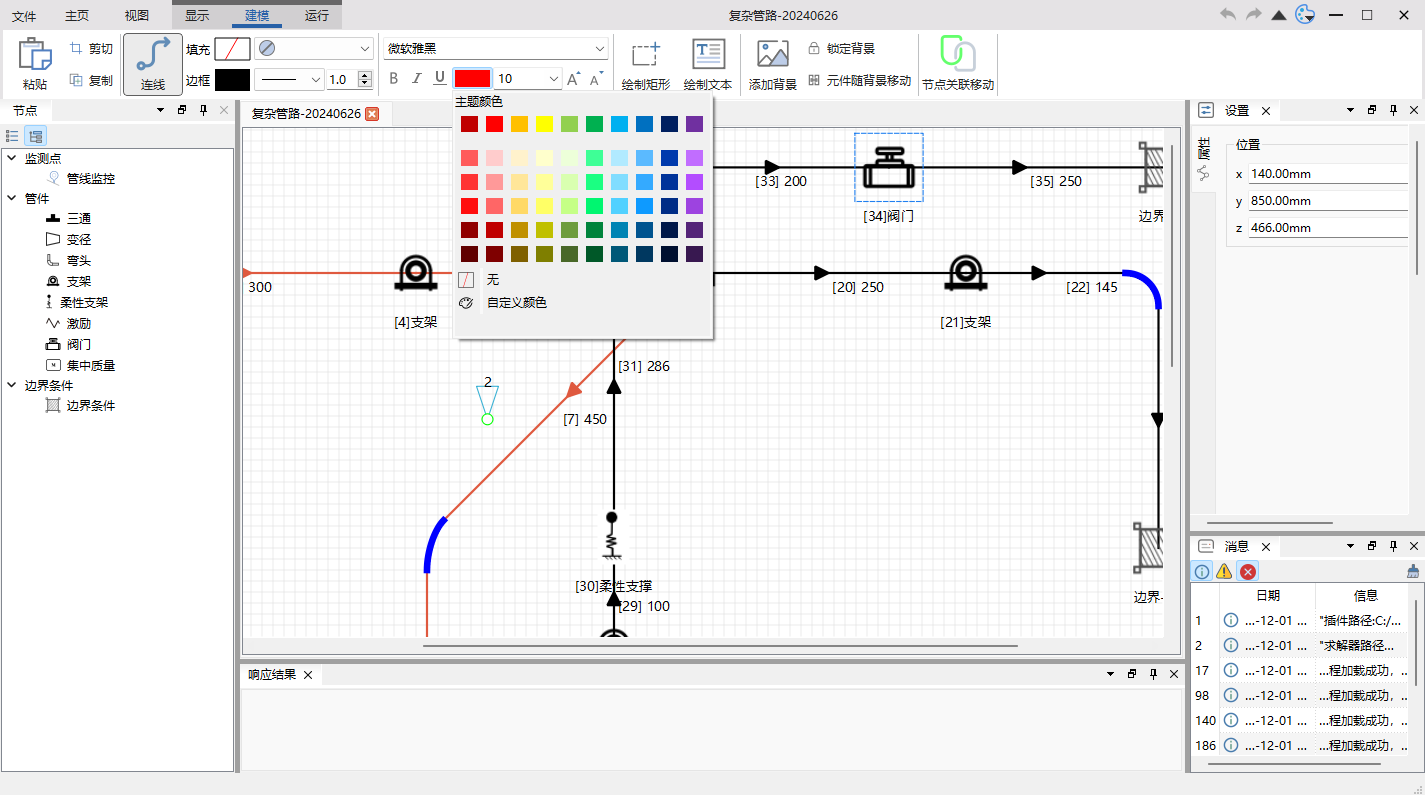
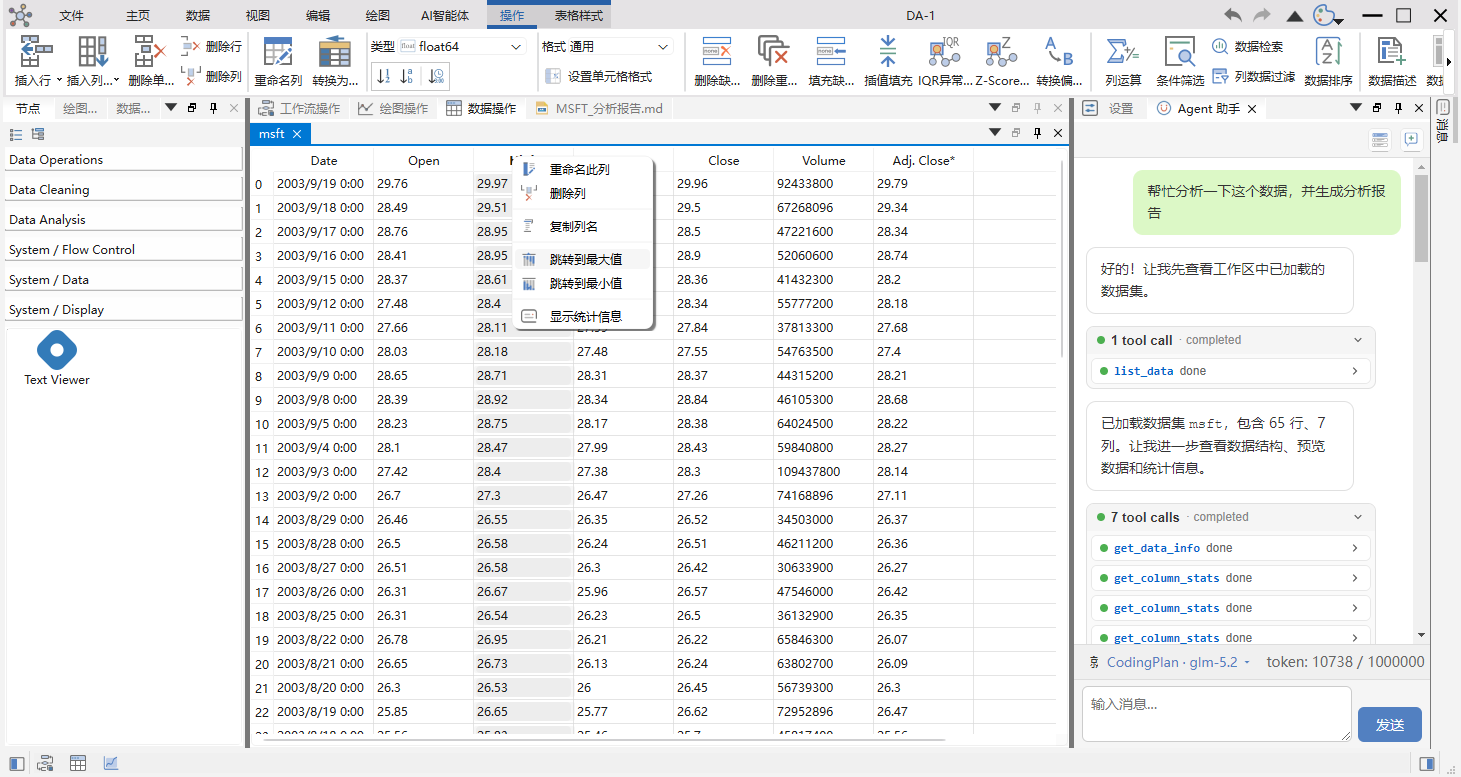
调整图片

Changed region(s): [[0.0, 0.0, 1.0, 1.0], [0.3088, 0.8958, 0.4323, 0.9575], [0.0, 0.9575, 0.0926, 1.0]]

diff --git a/readme-cn.md b/readme-cn.md
@@ -149,18 +149,17 @@ Python 示例程序位于 `pyexamples/` 目录。
 ## 更多截图
 
 - 这是使用SARibbon构建的软件截图
+    DAWorkbench，地址：[github](https://github.com/czyt1988/data-workbench)、[gitee](https://gitee.com/czyt1988/data-workbench)
+    
+    这是一个带agent的数据分析软件，支持工作流，ai agent分析，如果你想了解如何在c++/Qt程序中嵌入agent,也可以通过此软件了解
 
-![data-workbench-screenshot1-cn](./docs/assets/screenshot/data-workbench-screenshot1-cn.gif)
-![data-workbench-screenshot01-en](./docs/assets/screenshot/data-workbench-screenshot01-en.png)
-![data-workbench-screenshot01-cn](./docs/assets/screenshot/data-workbench-screenshot01-cn.png)
+    ![data-workbench-screenshot1-cn](./docs/assets/screenshot/data-workbench-screenshot1-cn.gif)
+    ![data-workbench-screenshot01-en](./docs/assets/screenshot/data-workbench-screenshot02-cn.png)
+    ![data-workbench-screenshot01-cn](./docs/assets/screenshot/data-workbench-screenshot01-cn.png)
 
-[github - https://github.com/czyt1988/data-workbench](https://github.com/czyt1988/data-workbench)
+    具体Ribbon的生成代码可见：
 
-[gitee - https://gitee.com/czyt1988/data-workbench](https://gitee.com/czyt1988/data-workbench)
-
-具体Ribbon的生成代码可见：
-
-[https://github.com/czyt1988/data-workbench/blob/master/src/APP/DAAppRibbonArea.cpp](https://github.com/czyt1988/data-workbench/blob/master/src/APP/DAAppRibbonArea.cpp)
+    [https://github.com/czyt1988/data-workbench/blob/master/src/APP/DAAppRibbonArea.cpp](https://github.com/czyt1988/data-workbench/blob/master/src/APP/DAAppRibbonArea.cpp)
 
 ## 文档生成
 
